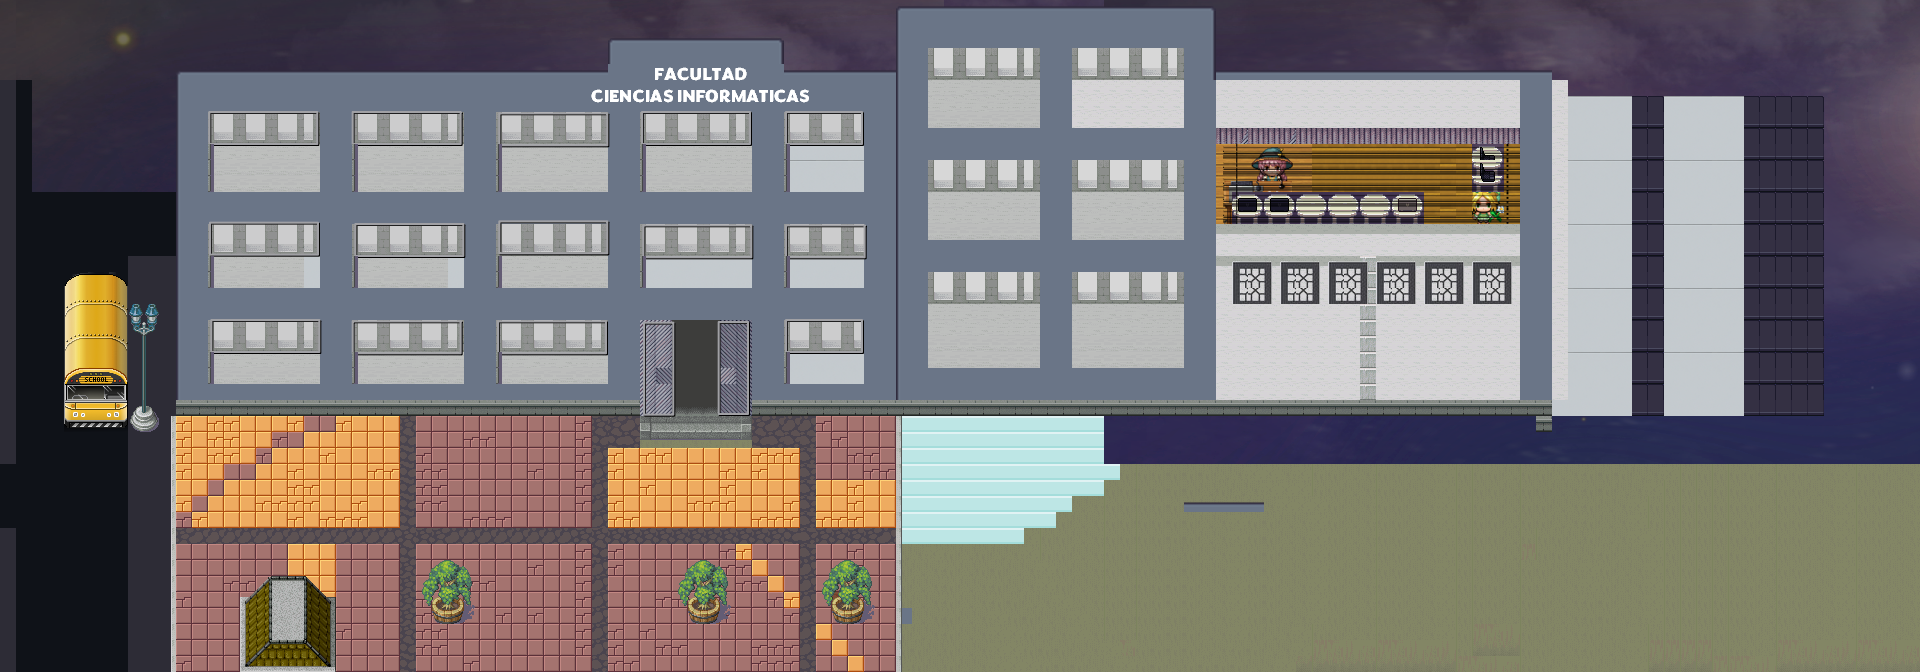
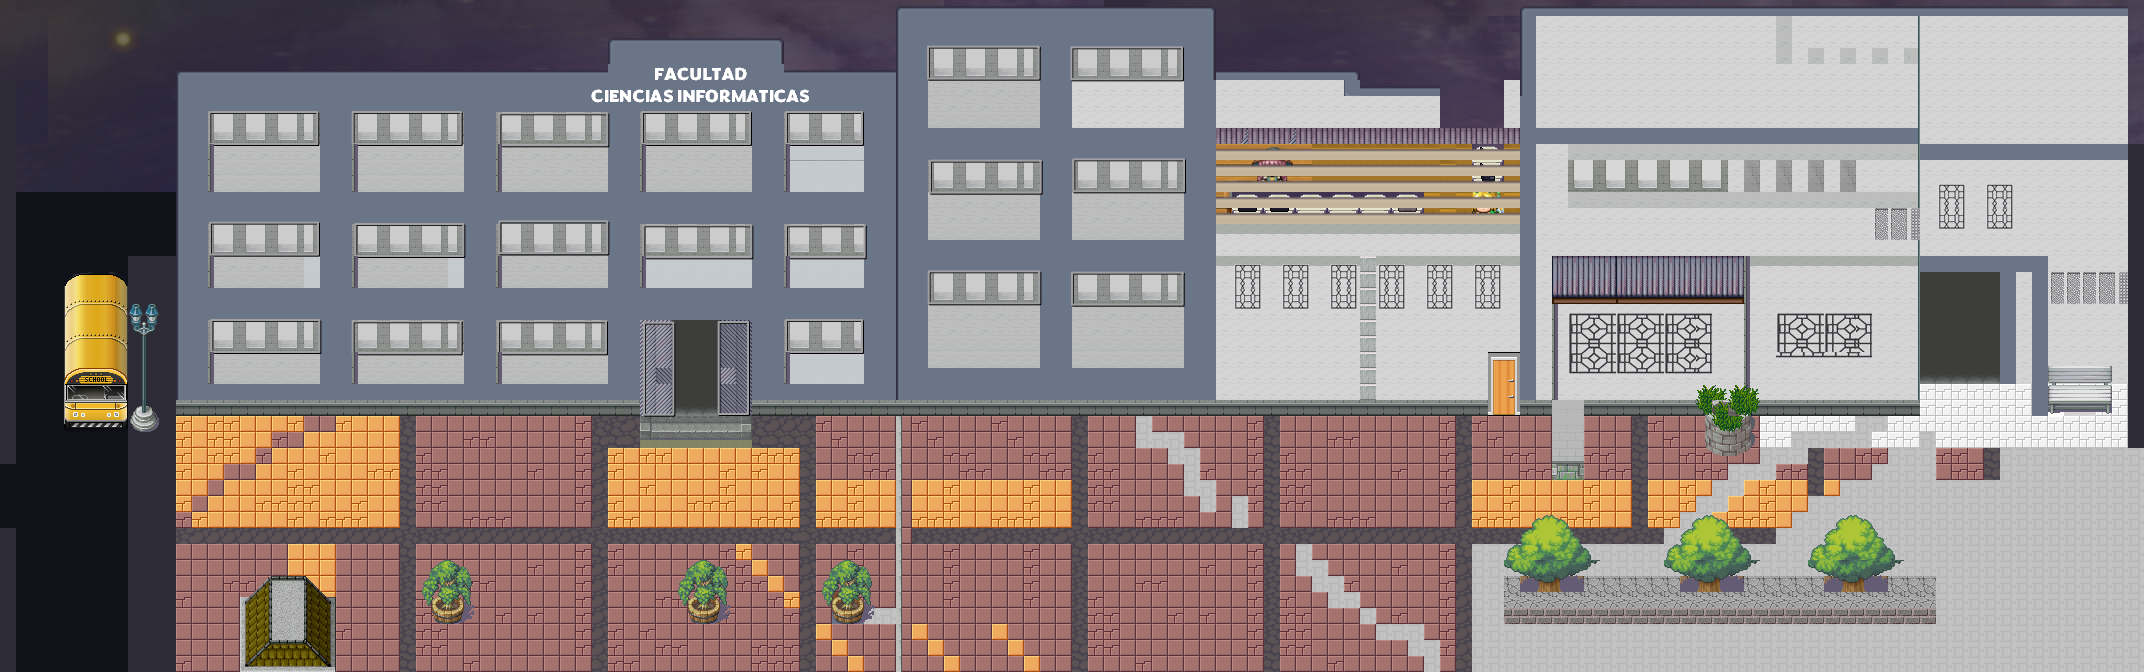
add scene outside

diff --git a/scenes/outside.js b/scenes/outside.js
@@ -1,0 +1,126 @@
+import { Avatar } from "./player.js";
+import {
+  crearPlataforma,
+  dimesionesPlataforma,
+  dimesionesPlataformaIndividual,
+} from "./module/platform.js";
+
+import { traslate } from "../data/dialogues.js";
+import { crearVideo } from "./module/videoInfo.js";
+import { crearCard } from "./module/card.js";
+import { getEmployees } from "../services/employee.js";
+import { createButtonCircle } from "../scenes/components/common/buttonCircle.js";
+import { navbar } from "./components/common/navbar.js";
+// let window.lan = "en";
+let activeVideo = false;
+
+export class Outside extends Phaser.Scene {
+  constructor() {
+    super({ key: "outside" });
+
+    this.preloadCubicle();
+  }
+  preloadCubicle() {
+    getEmployees().then((data) => {
+      this.dataEmployees = data;
+    });
+  }
+  preload() {
+    // this.load.image("floorExample", "assets/images/outside/facci-general.png");
+    this.load.image("patioFacci", "assets/images/outside/patio-facci.png");
+    this.load.image("streetEast", "assets/images/outside/calle-este.png");
+    this.load.image("building", "assets/images/outside/edificio.png");
+    this.load.image("plant", "assets/images/outside/planta.png");
+    this.load.image("tree", "assets/images/outside/arbolExterior.png");
+    this.load.image("tree2", "assets/images/outside/arbolExterior2.png");
+    this.load.image("ladoNortePuerta", "assets/images/outside/lado-norte-puerta.png");
+    this.load.image("ladoOeste", "assets/images/outside/lado-oeste.png");
+    this.load.image("puertaFacci", "assets/images/outside/puertaFacci.png");
+    this.load.image("puertaFacci2", "assets/images/outside/puertaFacci2.png");
+    this.load.image("asientoPlanta", "assets/images/outside/asientoPlanta.png");
+    this.load.image("asientoFacci", "assets/images/outside/asientoFacci.png");
+    this.load.image("calleBus", "assets/images/outside/calle-bus.png");
+    this.load.image("limiteSur", "assets/images/outside/limite-sur-facci.png");
+  }
+
+  create() {
+    window.avatarUpdateActivo = true;
+    // this.cameras.main.fadeIn(500);
+    this.cameras.main.transparent = true;
+
+    // this.add.image(800, 500, "floorExample").setScale(0.75);
+    this.add.image(862, 655, "patioFacci").setScale(0.75);
+
+    this.add.image(62, 500, "streetEast").setScale(0.75);
+    //plataformas
+    let platform1 = this.physics.add.staticGroup();
+
+    const building = crearPlataforma(782, 405, "building", platform1, 0.75);
+    dimesionesPlataformaIndividual(building, 0.6, 90);
+    const ladoNortePuerta = crearPlataforma(1466, 345, "ladoNortePuerta", platform1, 0.75);
+    dimesionesPlataformaIndividual(ladoNortePuerta, 0.6, 80);
+    const ladoOeste = crearPlataforma(1550, 405, "ladoOeste", platform1, 0.75);
+    dimesionesPlataformaIndividual(ladoOeste, 0.6, 80);
+    const puertaFacci = crearPlataforma(1466, 500, "puertaFacci", platform1, 0.75);
+    dimesionesPlataformaIndividual(puertaFacci, 0.4, 0);
+    const puertaFacci2 = crearPlataforma(517, 535, "puertaFacci2", platform1, 0.75);
+    dimesionesPlataformaIndividual(puertaFacci2, 0.5, 1);
+
+    const plant = crearPlataforma(330, 690, "plant", platform1, 0.75);
+    dimesionesPlataformaIndividual(plant, 0.5, 10);
+    const plant2 = crearPlataforma(530, 690, "plant", platform1, 0.75);
+    dimesionesPlataformaIndividual(plant2, 0.5, 10);
+    const plant3 = crearPlataforma(630, 690, "plant", platform1, 0.75);
+    dimesionesPlataformaIndividual(plant3, 0.5, 10);
+    const asientoPlanta = crearPlataforma(1270, 560, "asientoPlanta", platform1, 0.75);
+    dimesionesPlataformaIndividual(asientoPlanta, 0.5, 10);
+    const asientoFacci = crearPlataforma(1173, 580, "asientoFacci", platform1, 0.75);
+    dimesionesPlataformaIndividual(asientoFacci, 0.5, 10);
+    const calleBus = crearPlataforma(62, 410, "calleBus", platform1, 0.75);
+    dimesionesPlataformaIndividual(calleBus, 0.9, 15);
+    const limiteSur = crearPlataforma(800, 767, "limiteSur", platform1, 0.75).setScale(3.55,1);
+  
+    dimesionesPlataformaIndividual(limiteSur, 0.9, 15);
+
+    
+    const tree = crearPlataforma(1287, 705, "tree", platform1, 0.75);
+    dimesionesPlataformaIndividual(tree, 0.2, -5);
+    
+    this.avatar = new Avatar(this, 800, 500, 1.2);
+    const tree2 = crearPlataforma(1287, 665, "tree2", platform1, 0.75);
+    dimesionesPlataformaIndividual(tree2, 0.2, 47);
+     createButtonCircle(this, "hallway2", puertaFacci, 500, 500);
+     createButtonCircle(this, "hallway2", puertaFacci2, 500, 500);
+    //   createButtonCircle(this, "aula", escritorioD, 800, 500);
+
+    this.physics.add.collider(this.avatar.avatarPlayer, platform1);
+    // this.physics.add.collider(this.avatar.avatarPlayer, paredNorte);
+
+
+
+    let teclado = this.input.keyboard;
+
+    // Configurar una acción para la tecla "i"
+    teclado.addKey(Phaser.Input.Keyboard.KeyCodes.I).on(
+      "down",
+      function (event) {
+      
+        // Puedes ejecutar cualquier código que quieras cuando se presione la tecla "i"
+        crearVideo(traslate("infoCubicle"), "avatarVideo1", this, true);
+      }.bind(this)
+    );
+    this.cameras.main.startFollow(this.avatar.avatarPlayer);
+
+    this.cameras.main.zoom = 2;
+
+
+
+
+    navbar(this, "outside");
+
+  }
+
+  update() {
+    this.avatar.update(this);
+  }
+}

diff --git a/scenes/cubicle.js b/scenes/cubicle.js
@@ -63,13 +63,7 @@ export class Cubicle extends Phaser.Scene {
     this.load.image("anaquel", "assets/images/cubicle/anaquel.png");
 
     this.load.image("fotoCarnet", "assets/images/avatars/avatar1.png");
-    this.load.video(
-      "avatarVideo",
-      "assets/videos/valentin.mp4",
-      "loadeddata",
-      false,
-      true
-    );
+  
   }
 
   async create() {
@@ -155,7 +149,7 @@ export class Cubicle extends Phaser.Scene {
     let paredSurIzq = crearPlataforma(322, 720, "paredSurEste", plataformas);
 
     if (activeVideo) {
-      crearVideo(traslate("infoCubicle"), "avatarVideo", this, true);
+      crearVideo(traslate("infoCubicle"), "avatarVideo1", this, true);
     }
     this.cameras.main.startFollow(this.avatar.avatarPlayer); // Configurar seguimiento de cámara al personaje
     this.cameras.main.zoom = 2;
@@ -163,29 +157,27 @@ export class Cubicle extends Phaser.Scene {
     let teclado = this.input.keyboard;
 
     // Configurar una acción para la tecla "i"
-    let miAccion = teclado.addKey(Phaser.Input.Keyboard.KeyCodes.I);
-
-    // Configurar qué hacer cuando se presiona la tecla "i"
+    teclado.addKey(Phaser.Input.Keyboard.KeyCodes.I)
     miAccion.on(
       "down",
       function (event) {
       
 
         // Puedes ejecutar cualquier código que quieras cuando se presione la tecla "i"
-       this.showVideo();
+        crearVideo(traslate("infoCubicle"), "avatarVideo1", this, true);
       }.bind(this)
     );
 
-    this.showVideo = () => {
-        //resetear camara
-        this.cameras.main.stopFollow();
-        this.cameras.main.setZoom(1);
+    // showVideo = () => {
+    //     //resetear camara
+    //     this.cameras.main.stopFollow();
+    //     this.cameras.main.setZoom(1);
 
-        // this.cameras.main.zoom = 1;
-        this.cameras.main.centerOn(0, 0);
-        this.cameras.main.setScroll(0, 0);
-      crearVideo(traslate("infoCubicle"), "avatarVideo", this, true);
-    };
+    //     // this.cameras.main.zoom = 1;
+    //     this.cameras.main.centerOn(0, 0);
+    //     this.cameras.main.setScroll(0, 0);
+    //   crearVideo(traslate("infoCubicle"), "avatarVideo", this, true);
+    // };
     dimesionesPlataformaIndividual(escritorioA, 0, 20);
     dimesionesPlataformaIndividual(escritorioD, 0, 25);
     dimesionesPlataformaIndividual(paredSurDerecha, 1, 145);

diff --git a/scenes/hallway2.js b/scenes/hallway2.js
@@ -72,11 +72,10 @@ export class Hallway2 extends Phaser.Scene {
     this.physics.add.collider(this.avatar.avatarPlayer, plataformasillas);
     this.physics.add.collider(this.avatar.avatarPlayer, paredPlataforma);
 
-    // Configurar seguimiento de cámara al personaje
+ 
     this.cameras.main.startFollow(this.avatar.avatarPlayer);
 
-    // Configurar zoom de la cámara en función de la posición del personaje
-    this.cameras.main.zoom = 2; // Ajustar el valor 300 y 600 según tus necesidades
+    this.cameras.main.zoom = 2; 
   
     navbar(this, "hallway ");
   }

diff --git a/scenes/module/videoInfo.js b/scenes/module/videoInfo.js
@@ -1,9 +1,16 @@
+import { traslate } from "../../data/dialogues.js";
 export const crearVideo = (mensaje, videoFile, scene, keyZoom) => {
   let indice = 0;
   let video;
   let texto;
 
   window.avatarUpdateActivo = false;
+  //resetear camara
+  scene.cameras.main.stopFollow();
+  scene.cameras.main.setZoom(1);
+
+  scene.cameras.main.centerOn(0, 0);
+  scene.cameras.main.setScroll(0, 0);
 
   video = scene.add.video(775, 850, videoFile);
   video.setAlpha(1);
@@ -84,3 +91,5 @@ export const crearVideo = (mensaje, videoFile, scene, keyZoom) => {
     });
   }
 };
+
+

diff --git a/scenes/components/loanding/preload.js b/scenes/components/loanding/preload.js
@@ -19,6 +19,21 @@ const preloadIntro = (scene) => {
   scene.load.image("lock", "assets/images/intro/lock.png");
   scene.load.image("ava", "assets/images/player/ava.png");
   scene.load.image("ava2", "assets/images/player/ava2.png");
+
+  scene.load.video(
+    "avatarVideo1",
+    "assets/videos/valentin.mp4",
+    "loadeddata",
+    false,
+    true
+  );
+  scene.load.video(
+    "avatarVideo2",
+    "assets/videos/21.mp4",
+    "loadeddata",
+    false,
+    true
+  );
 };
 
 const preloadAdmistrativeRoom = (scene) => {

diff --git a/index.js b/index.js
@@ -14,6 +14,7 @@ import { Auditorium2 } from "./scenes/auditoruim2.js";
 import { Ranking } from "./scenes/ranking.js";
 import { AvatarS } from "./scenes/avatar.js";
 import { Question } from "./scenes/question.js";
+import { Outside } from "./scenes/outside.js";
 
 const config = {
   type: Phaser.AUTO,
@@ -23,6 +24,7 @@ const config = {
   // transparent: true, // Comentado porque no se usa
   scene: [
     Loading,
+    Outside,
     Login,
     Question,
     Intro,

diff --git a/scenes/module/blurButton.js b/scenes/module/blurButton.js
@@ -21,7 +21,7 @@ export const blurButton = (boton, escena) => {
     if (boton.name === "play") {
       // escena.cameras.main.fadeOut(500); // Desvanecer la pantalla durante 500 milisegundos
    
-          escena.scene.start("cubicle");
+          escena.scene.start("outside");
   
     }
     if (boton.name === "score") {

diff --git a/scenes/components/common/navbar.js b/scenes/components/common/navbar.js
@@ -82,4 +82,5 @@ export const navbar = async (scene, name = "cubicle") => {
   box.add(scoreUser);
 
   box.setScale(0.5);
+  return box;
 };
